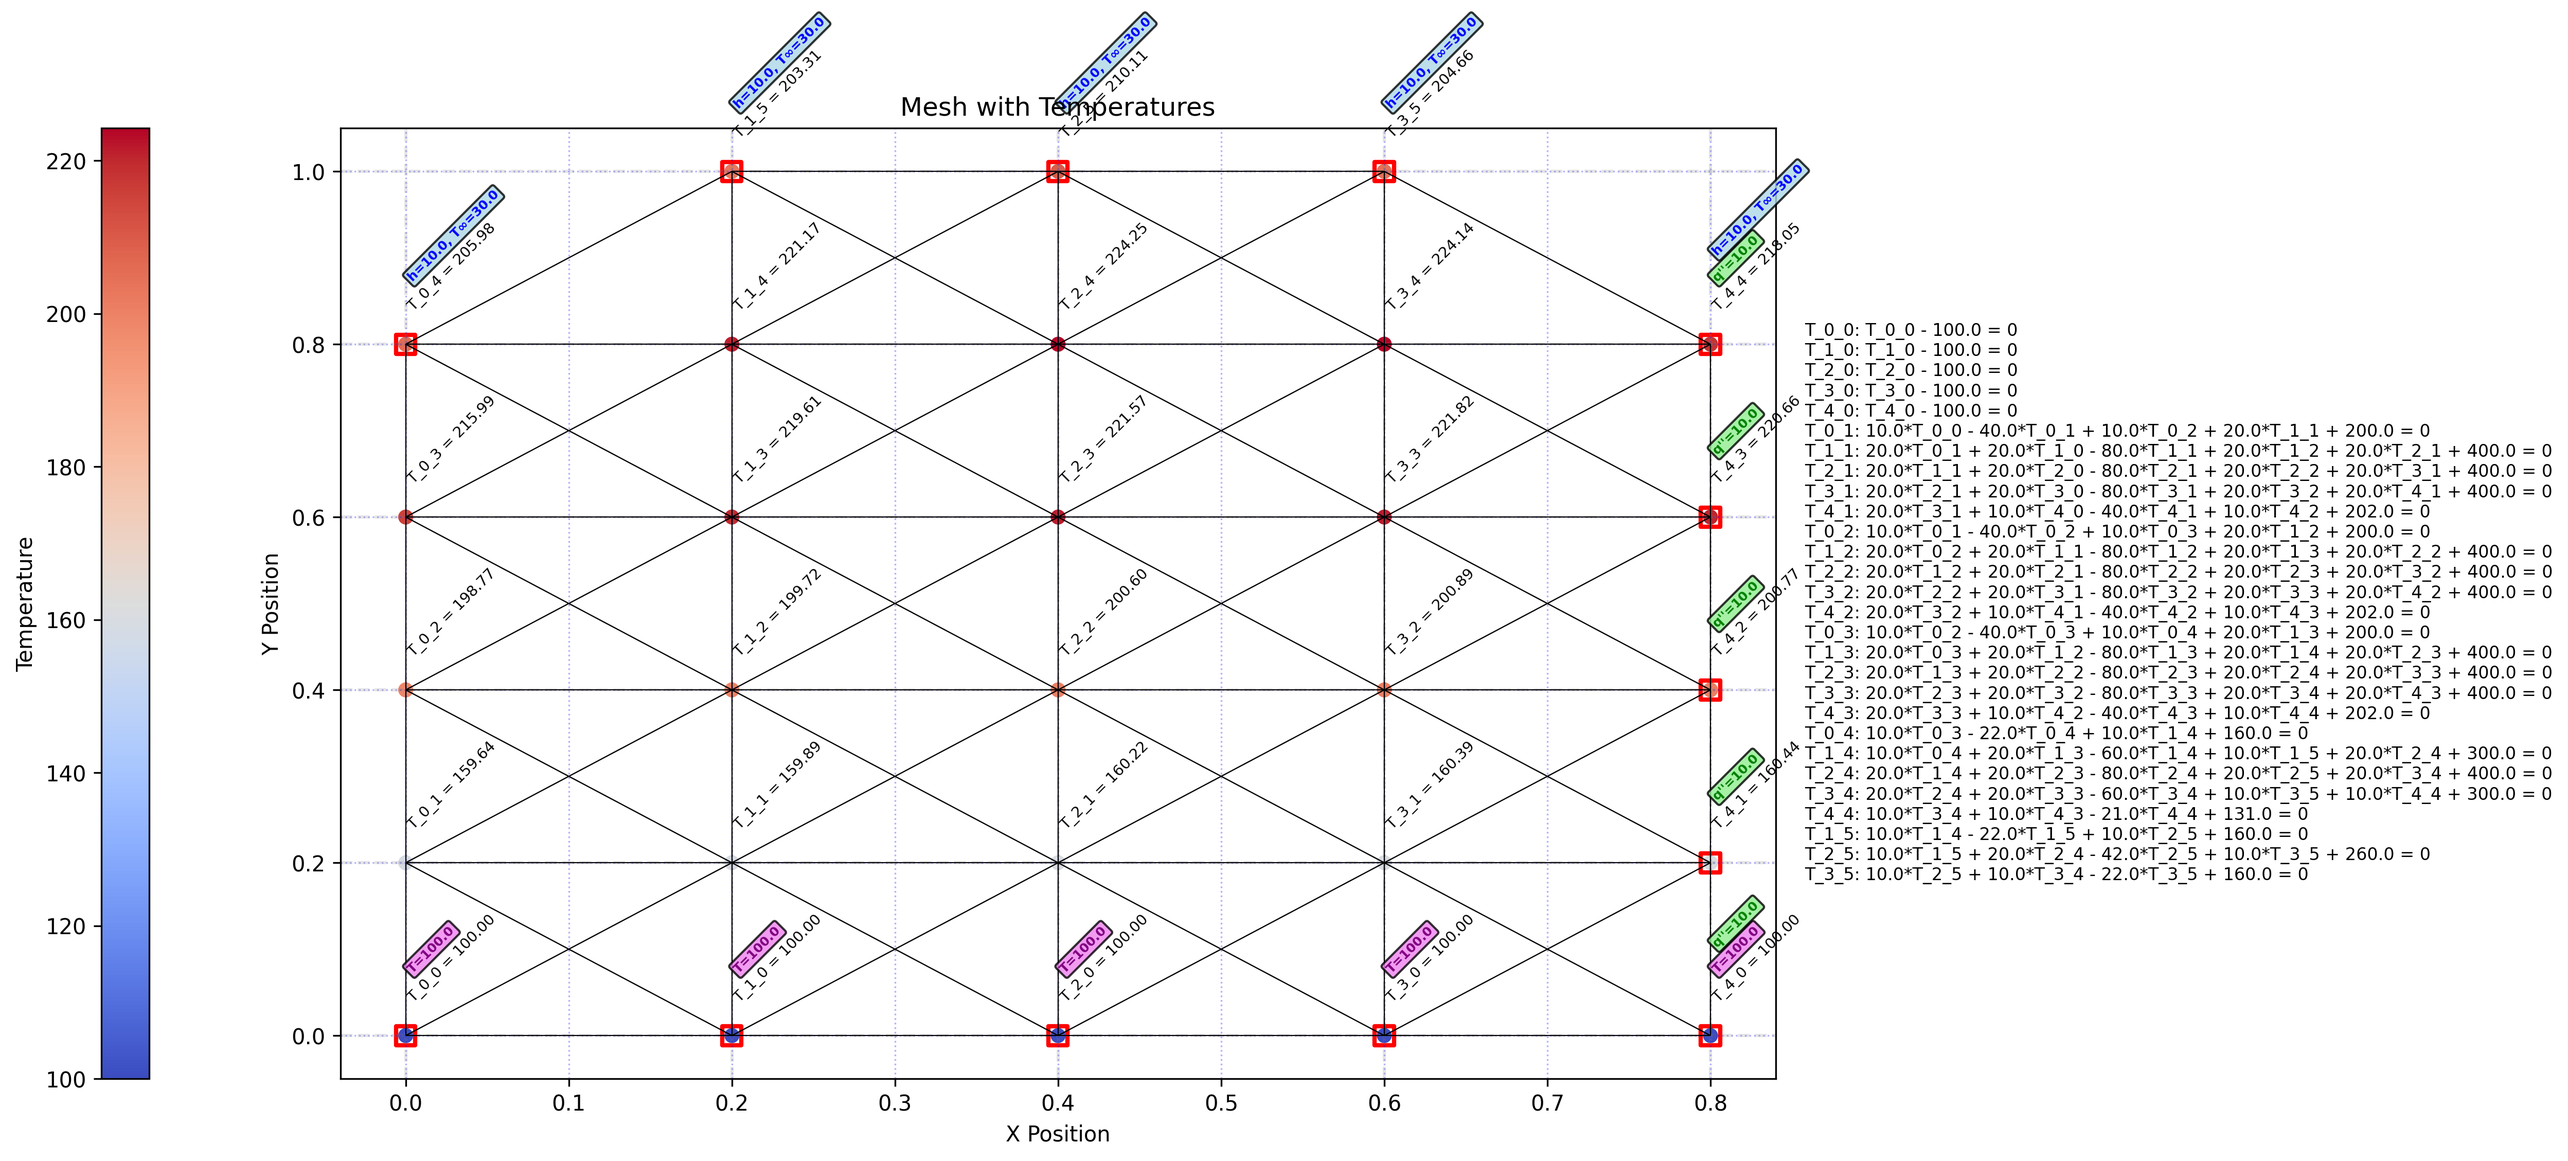
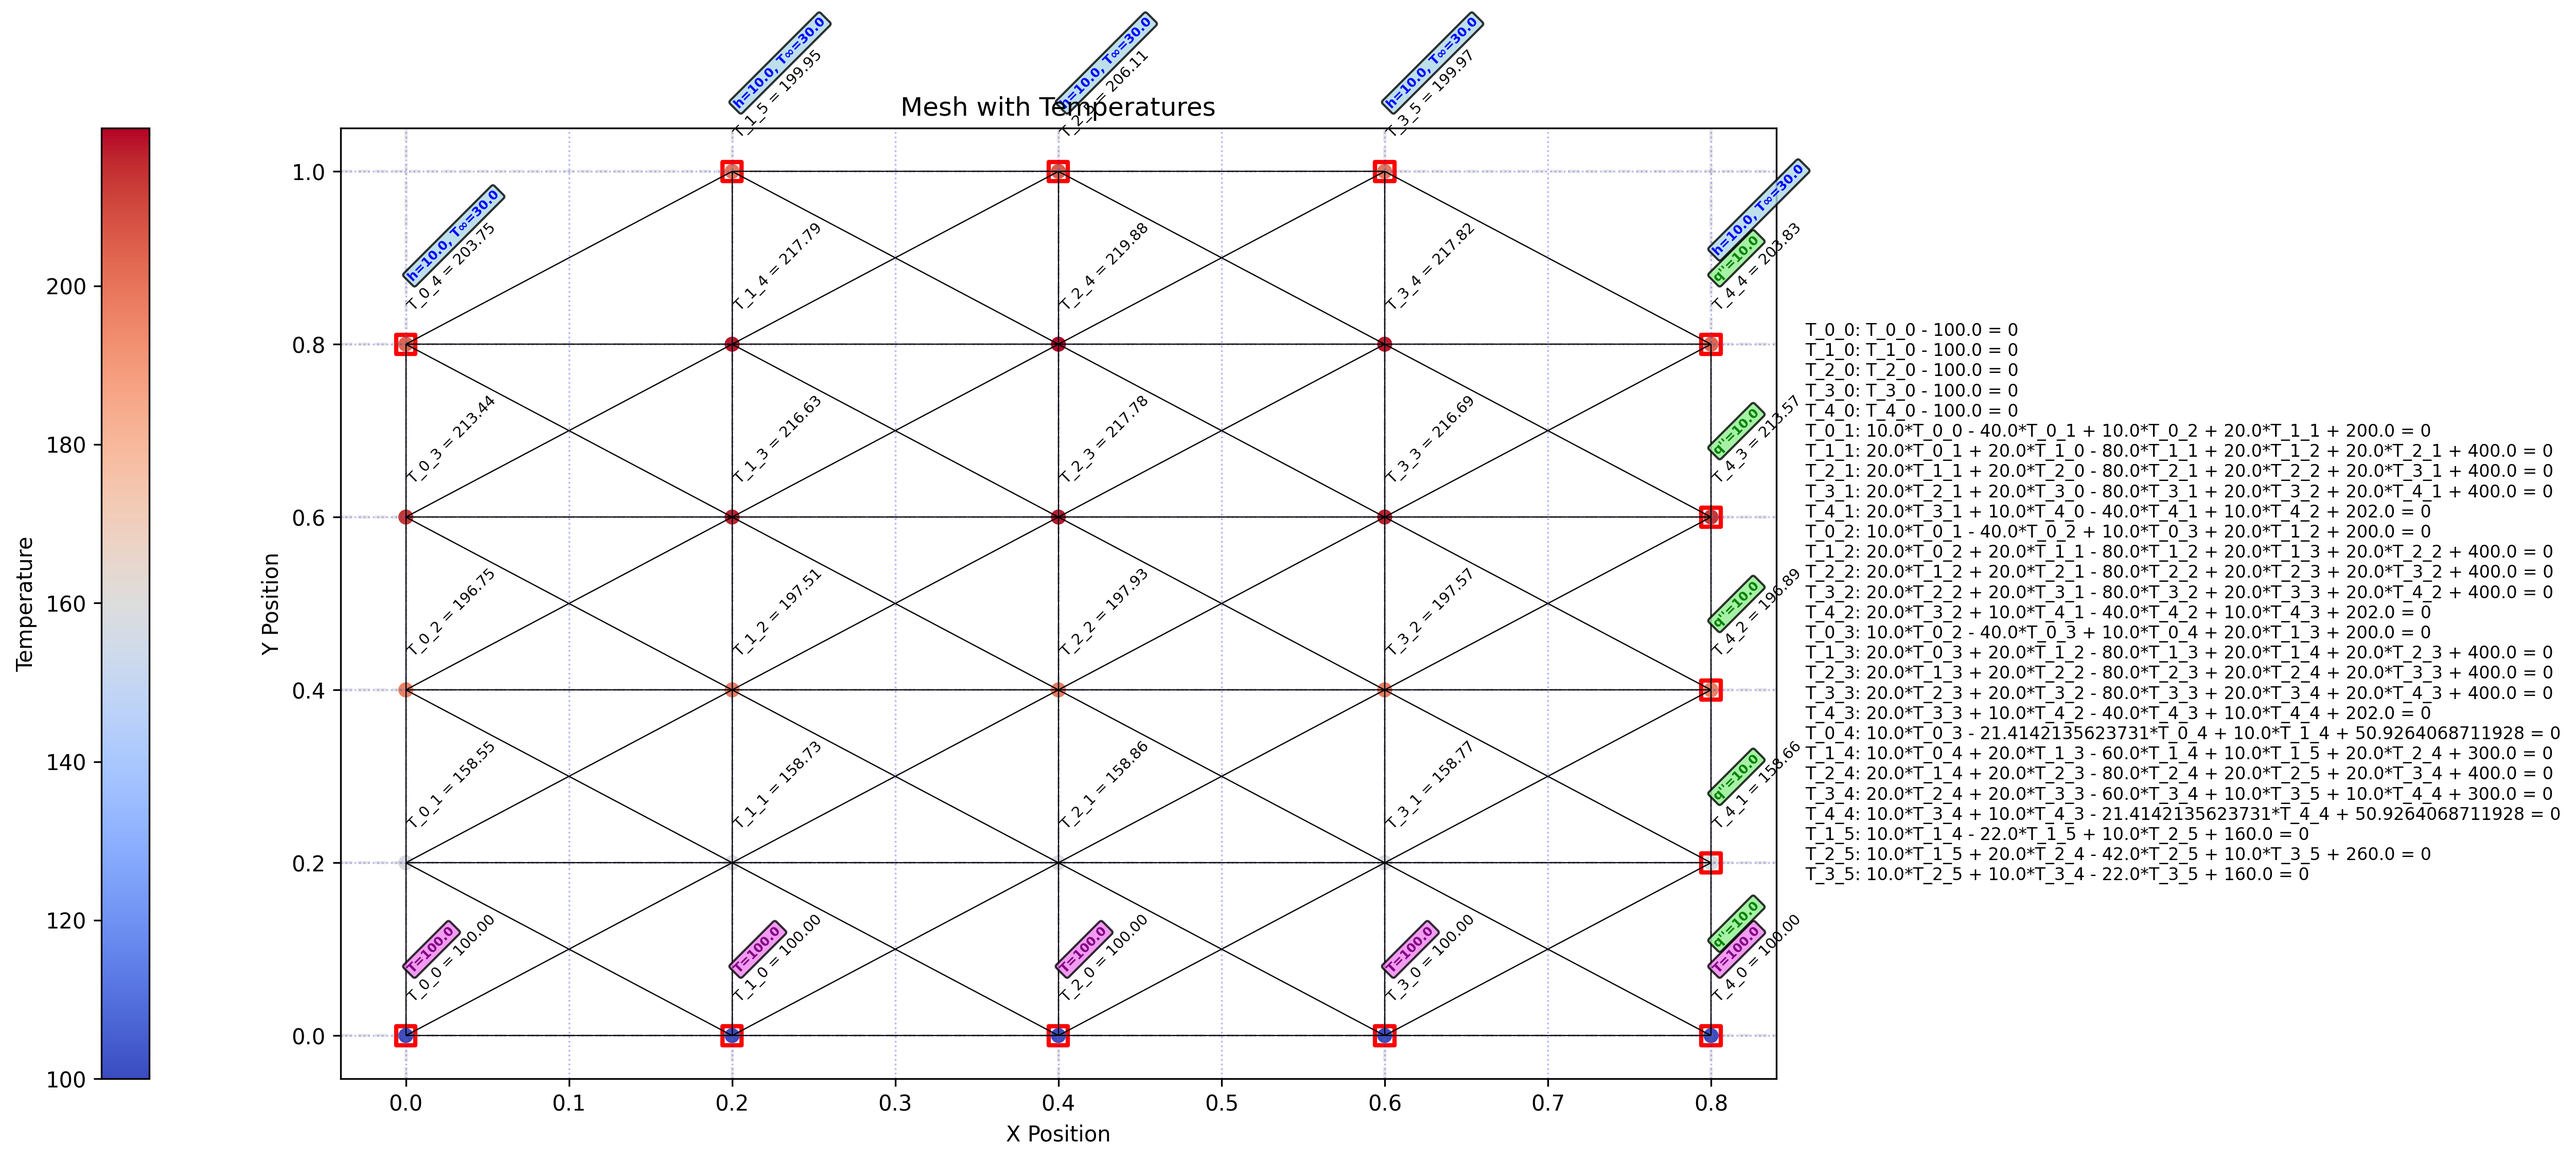
fixed weid boundary condition nodes with funciton overides

diff --git a/main.py b/main.py
@@ -2,13 +2,15 @@ from typing import Any, Callable
 from node import Node
 from boundary_conditions import ConstantTemperatureBC, ConvectionBC, HeatFluxBC
 from mesh import Mesh
+from math import sqrt
+
 
 # Material and boundary condition constants
 k = 20.0  # thermal conductivity
 q_dot_gen = 1.0e4  # heat generation
 h = 10.0  # convection coefficient
-const_temp = 100.0  # constant temperature for bottom boundary
 tinf = 30.0  # ambient temperature for convection
+const_temp = 100.0  # constant temperature for bottom boundary
 q_prime_prime = 10.0  # heat flux for right boundary
 deltax = 0.2  # grid spacing in x-direction
 deltay = 0.2  # grid spacing in y-direction
@@ -17,62 +19,47 @@ def node_factory(x: float, y: float, delta_x: float, delta_y: float) -> Node:
     """Factory function to create nodes with proper material properties."""
     return Node(x, y, delta_x=delta_x, delta_y=delta_y, k=k, q_dot_gen=q_dot_gen)
 
-def _clear_neighbor_references(mesh: Mesh, i: int, j: int):
-    """Clear all neighbor references pointing to node at position (i, j)."""
-    # Define direction mappings: (di, dj, reverse_direction)
-    direction_map = [
-        (-1, 0, 'up'),       # if we're removing a node, its 'down' neighbor should clear 'up' reference
-        (1, 0, 'down'),      # if we're removing a node, its 'up' neighbor should clear 'down' reference
-        (0, -1, 'right'),    # if we're removing a node, its 'left' neighbor should clear 'right' reference
-        (0, 1, 'left'),      # if we're removing a node, its 'right' neighbor should clear 'left' reference
-        (-1, -1, 'right_up'),
-        (1, -1, 'right_down'),
-        (-1, 1, 'left_up'),
-        (1, 1, 'left_down')
-    ]
-
-    for di, dj, reverse_direction in direction_map:
-        ni, nj = i + di, j + dj
-        if 0 <= ni < mesh.height and 0 <= nj < mesh.width:
-            neighbor = mesh.nodes[ni][nj]
-            if neighbor is not None and isinstance(neighbor, Node):
-                neighbor.neighbors[reverse_direction] = None
-
-def apply_boundary_conditions(mesh: Mesh):
+def apply_boundary_conditions(mesh, const_temp: float, h: float, T_inf: float, q_prime_prime: float):
     """Apply boundary conditions to the mesh after initialization."""
 
     # Bottom boundary (i=0) - constant temperature
     for j in range(mesh.width):
-        mesh[0, j].add_boundary_condition(ConstantTemperatureBC(const_temp))
+        mesh.nodes[0][j].add_boundary_condition(ConstantTemperatureBC(const_temp))
 
     # Top boundary (i=5) - convection (skip top left i.e j=0, top right is skip in the creation later)
     for j in range(1, mesh.width-1):  # Skip j=0 (left) and j=4 (right)
-        mesh[5, j].add_boundary_condition(ConvectionBC(h, tinf))
+        mesh.nodes[5][j].add_boundary_condition(ConvectionBC(h, T_inf))
 
     # Remove top left (i=5, j=0) and top right (i=5, j=4) nodes
     # First, clear neighbor references to these nodes
     if mesh.nodes[5][0] is not None:
         # Clear references from neighbors
-        _clear_neighbor_references(mesh, 5, 0)
+        mesh._clear_neighbor_references(5, 0)
     if mesh.nodes[5][4] is not None:
         # Clear references from neighbors
-        _clear_neighbor_references(mesh, 5, 4)
+        mesh._clear_neighbor_references(5, 4)
 
     mesh.nodes[5][0] = None
     mesh.nodes[5][4] = None
 
     # Right boundary (j=4) - heat flux (skip top right)
     for i in range(mesh.height-1):  # Skip i=5 (top row)
-        mesh[i, 4].add_boundary_condition(HeatFluxBC(q_prime_prime))
+        mesh.nodes[i][4].add_boundary_condition(HeatFluxBC(q_prime_prime))
 
-    mesh[4, 0].add_boundary_condition(ConvectionBC(h, tinf))
-    mesh[4, 4].add_boundary_condition(ConvectionBC(h, tinf))
+    mesh.nodes[4][0].add_boundary_condition(ConvectionBC(h, T_inf))
+    mesh.nodes[4][4].add_boundary_condition(ConvectionBC(h, T_inf))
+
 
 # Create a 5 wide x 6 tall mesh with nodes having proper material properties
 mesh: Mesh = Mesh(5, 6, delta_x=deltax, delta_y=deltay, node_factory=node_factory)
 
 # Apply boundary conditions by indexing the mesh
-apply_boundary_conditions(mesh)
+apply_boundary_conditions(mesh, const_temp, h, tinf, q_prime_prime)
+
+# Set overrides for specific nodes
+mesh[0,4].override = (3/8)*q_dot_gen/k*deltax**2+h*(deltax/sqrt(2))*(tinf-mesh[0,4].symbolic_temp)+(deltay*q_prime_prime/2)+k*(deltay/2)*((mesh[0,4].neighbors["right"].symbolic_temp-mesh[0,4].symbolic_temp)/deltax)+k*(deltax/2)*((mesh[0,4].neighbors["down"].symbolic_temp-mesh[0,4].symbolic_temp)/deltay)
+mesh[4,4].override = (3/8)*q_dot_gen/k*deltax**2+h*(deltax/sqrt(2))*(tinf-mesh[4,4].symbolic_temp)+(deltay*q_prime_prime/2)+k*(deltay/2)*((mesh[4,4].neighbors["left"].symbolic_temp-mesh[4,4].symbolic_temp)/deltax)+k*(deltax/2)*((mesh[4,4].neighbors["down"].symbolic_temp-mesh[4,4].symbolic_temp)/deltay)
+
 mesh.solve()
 
 if __name__ == "__main__":

diff --git a/mesh.py b/mesh.py
@@ -7,6 +7,7 @@ import matplotlib.pyplot as plt
 from matplotlib.figure import Figure
 from matplotlib.collections import LineCollection
 from node import BaseNode, Node
+from boundary_conditions import ConstantTemperatureBC, ConvectionBC, HeatFluxBC
 
 class Mesh:
     def __init__(self, width: int, height: int, delta_x: float = 1.0, delta_y: float = 1.0, node_factory: Optional[Callable[[float, float, float, float], BaseNode]] = None):
@@ -63,8 +64,8 @@ class Mesh:
     def __getitem__(self, indices: tuple[int, int]) -> BaseNode:
         if isinstance(indices, tuple) and len(indices) == 2:
             m, n = indices
-            if 0 <= m < self.height and 0 <= n < self.width:
-                return self.nodes[m][n]
+            if 0 <= n < self.height and 0 <= m < self.width:
+                return self.nodes[n][m]
             else:
                 raise IndexError("Mesh index out of range")
         else:
@@ -186,3 +187,24 @@ class Mesh:
         ax.text(1.02, 0.5, equations_text, transform=ax.transAxes, ha='left', va='center', fontsize=8, rotation=0)
 
         return fig
+
+    def _clear_neighbor_references(self, i: int, j: int):
+        """Clear all neighbor references pointing to node at position (i, j)."""
+        # Define direction mappings: (di, dj, reverse_direction)
+        direction_map = [
+            (-1, 0, 'up'),       # if we're removing a node, its 'down' neighbor should clear 'up' reference
+            (1, 0, 'down'),      # if we're removing a node, its 'up' neighbor should clear 'down' reference
+            (0, -1, 'right'),    # if we're removing a node, its 'left' neighbor should clear 'right' reference
+            (0, 1, 'left'),      # if we're removing a node, its 'right' neighbor should clear 'left' reference
+            (-1, -1, 'right_up'),
+            (1, -1, 'right_down'),
+            (-1, 1, 'left_up'),
+            (1, 1, 'left_down')
+        ]
+
+        for di, dj, reverse_direction in direction_map:
+            ni, nj = i + di, j + dj
+            if 0 <= ni < self.height and 0 <= nj < self.width:
+                neighbor = self.nodes[ni][nj]
+                if neighbor is not None and isinstance(neighbor, Node):
+                    neighbor.neighbors[reverse_direction] = None

diff --git a/node.py b/node.py
@@ -30,6 +30,8 @@ class Node(BaseNode):
         super().__init__(x, y, temperature, delta_x, delta_y, k, q_dot_gen)
         # List of boundary conditions applied to this node
         self.boundary_conditions: List[BoundaryCondition] = []
+        # Override for finite difference formula
+        self.override: Optional[sp.Expr] = None
 
         self.neighbors: Dict[str, Optional['BaseNode']] = {
             'up': None,
@@ -58,9 +60,13 @@ class Node(BaseNode):
         return (1 if self.neighbors['left'] is not None else 0) + (1 if self.neighbors['right'] is not None else 0)
 
     def compute_finite_difference(self) -> sp.Expr:
+        # Check if override is provided
+        if self.override is not None:
+            return self.override
+
         # Note: Boundary conditions are now handled by BoundaryNode objects in the mesh
         # Regular nodes compute heat transfer to all neighbors (including boundary nodes)
-        
+
         # Count actual neighbors (non-None values)
         actual_neighbors = sum(1 for neighbor in self.neighbors.values() if neighbor is not None)
 
